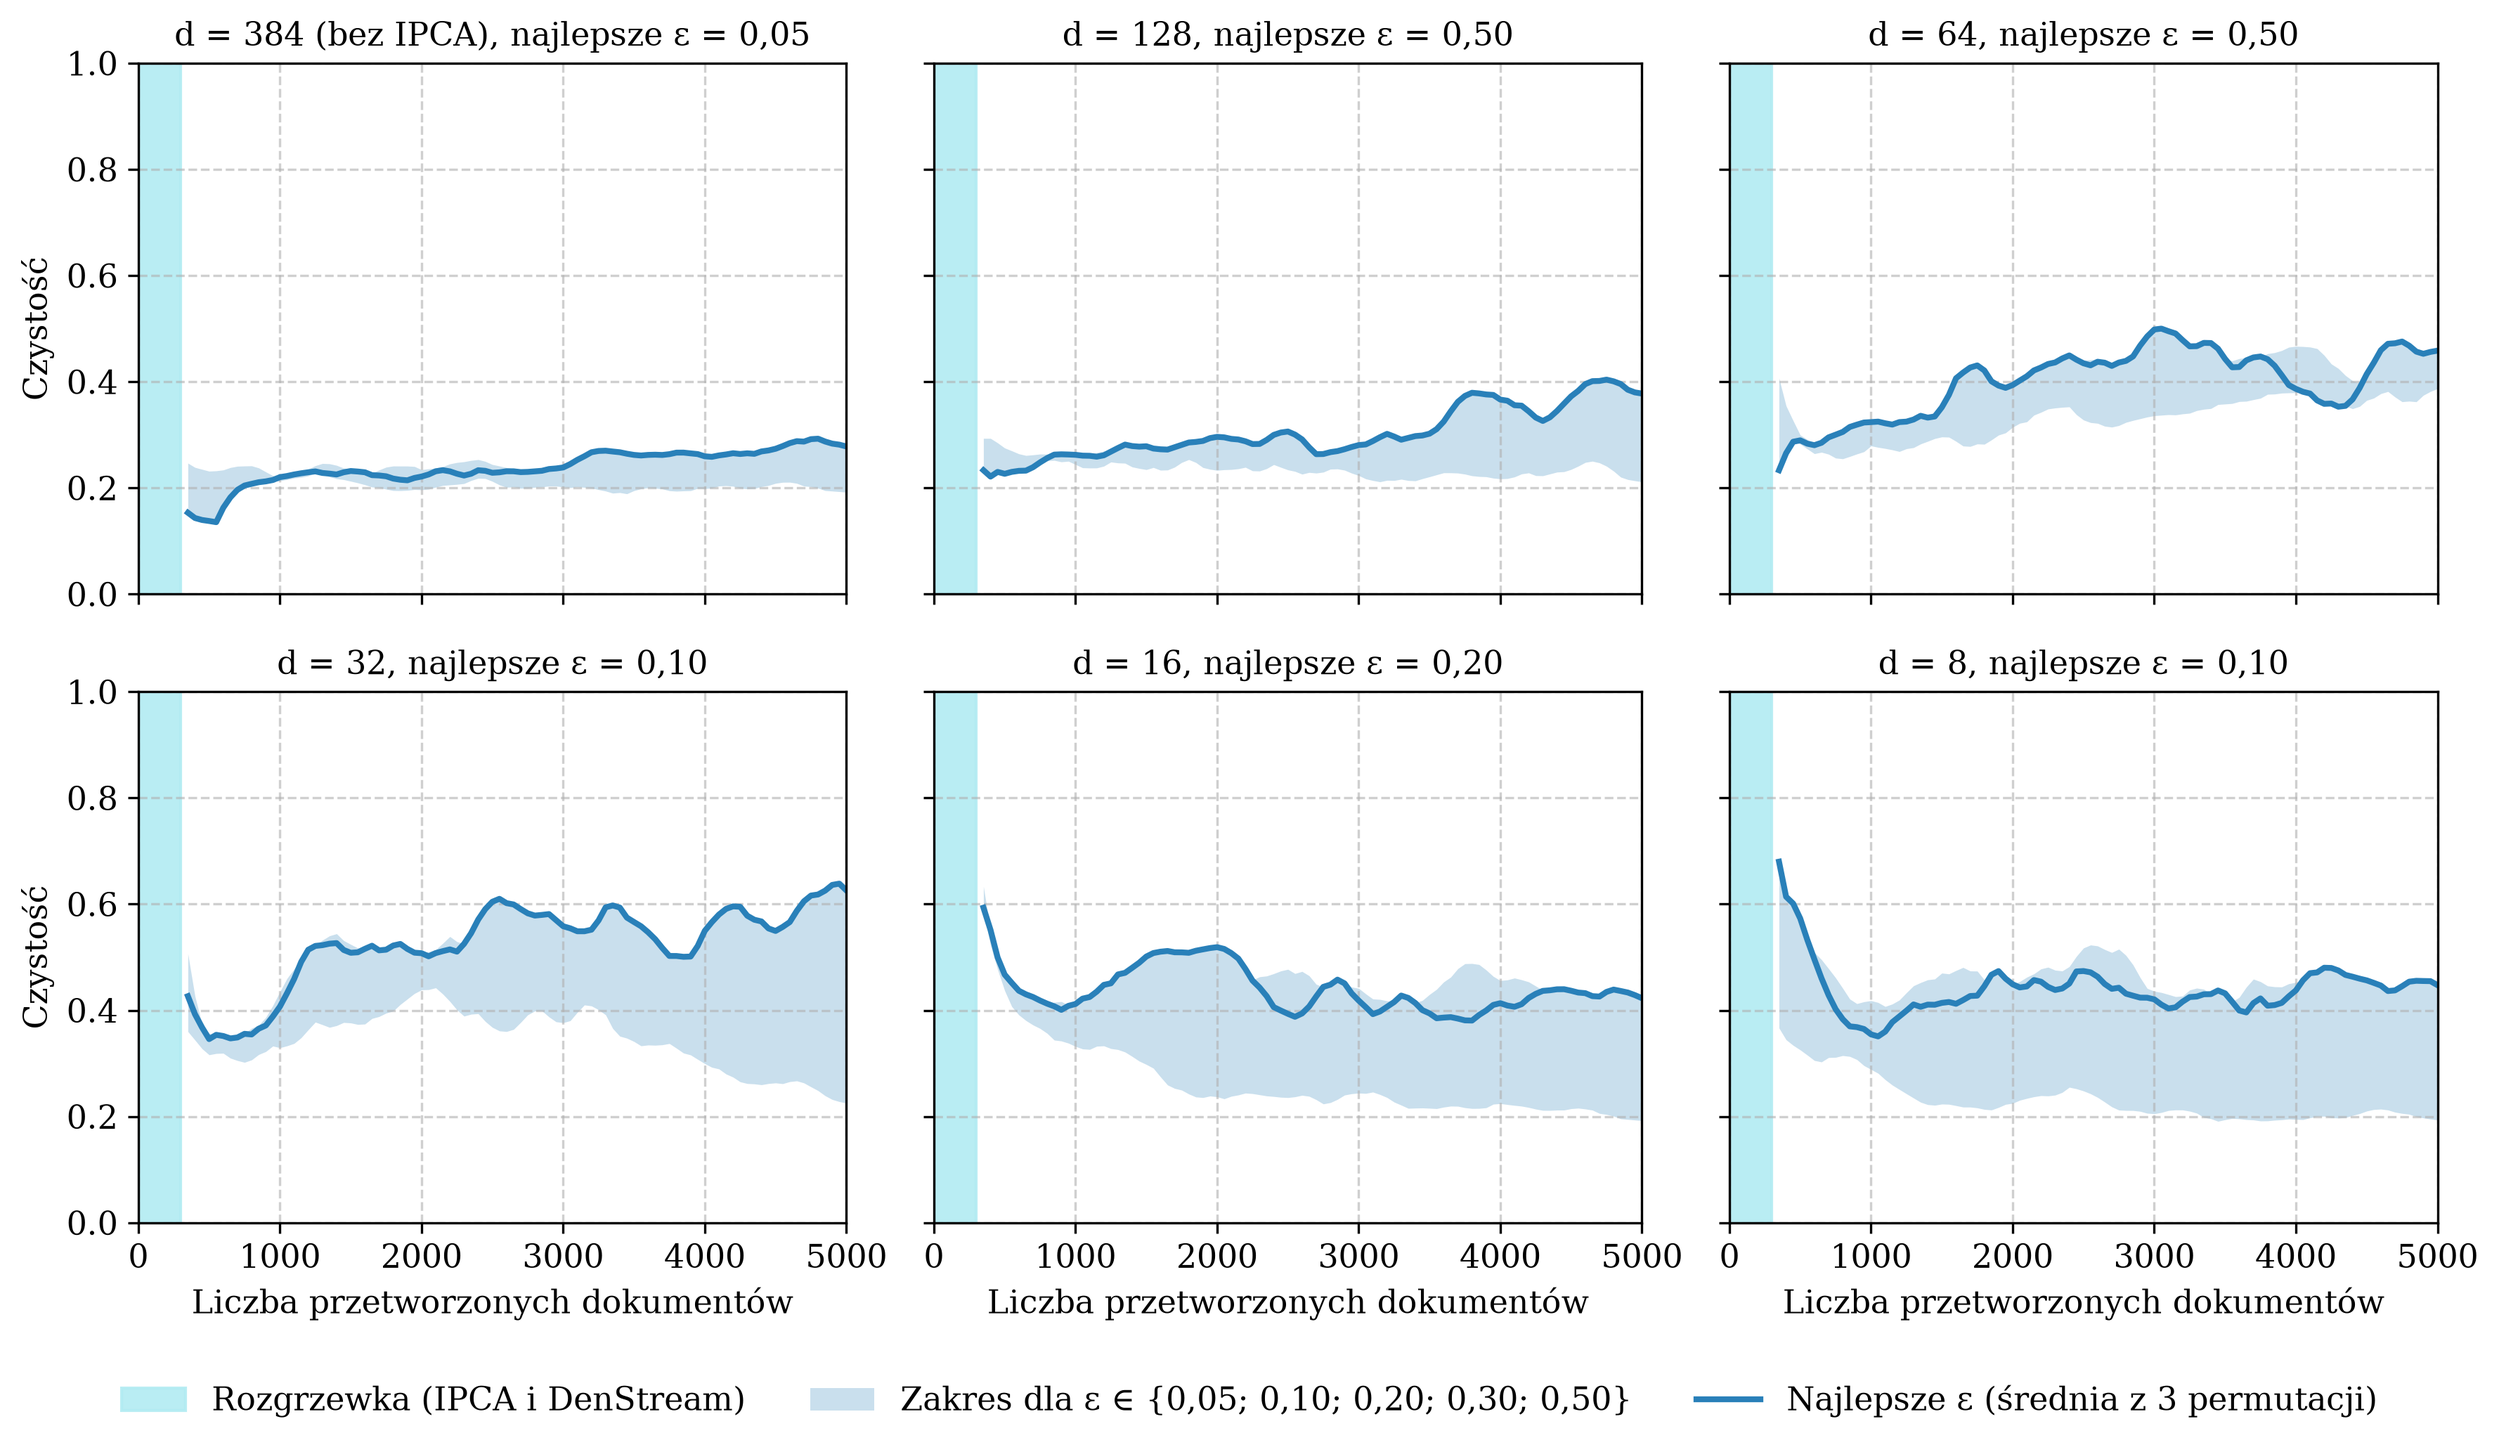
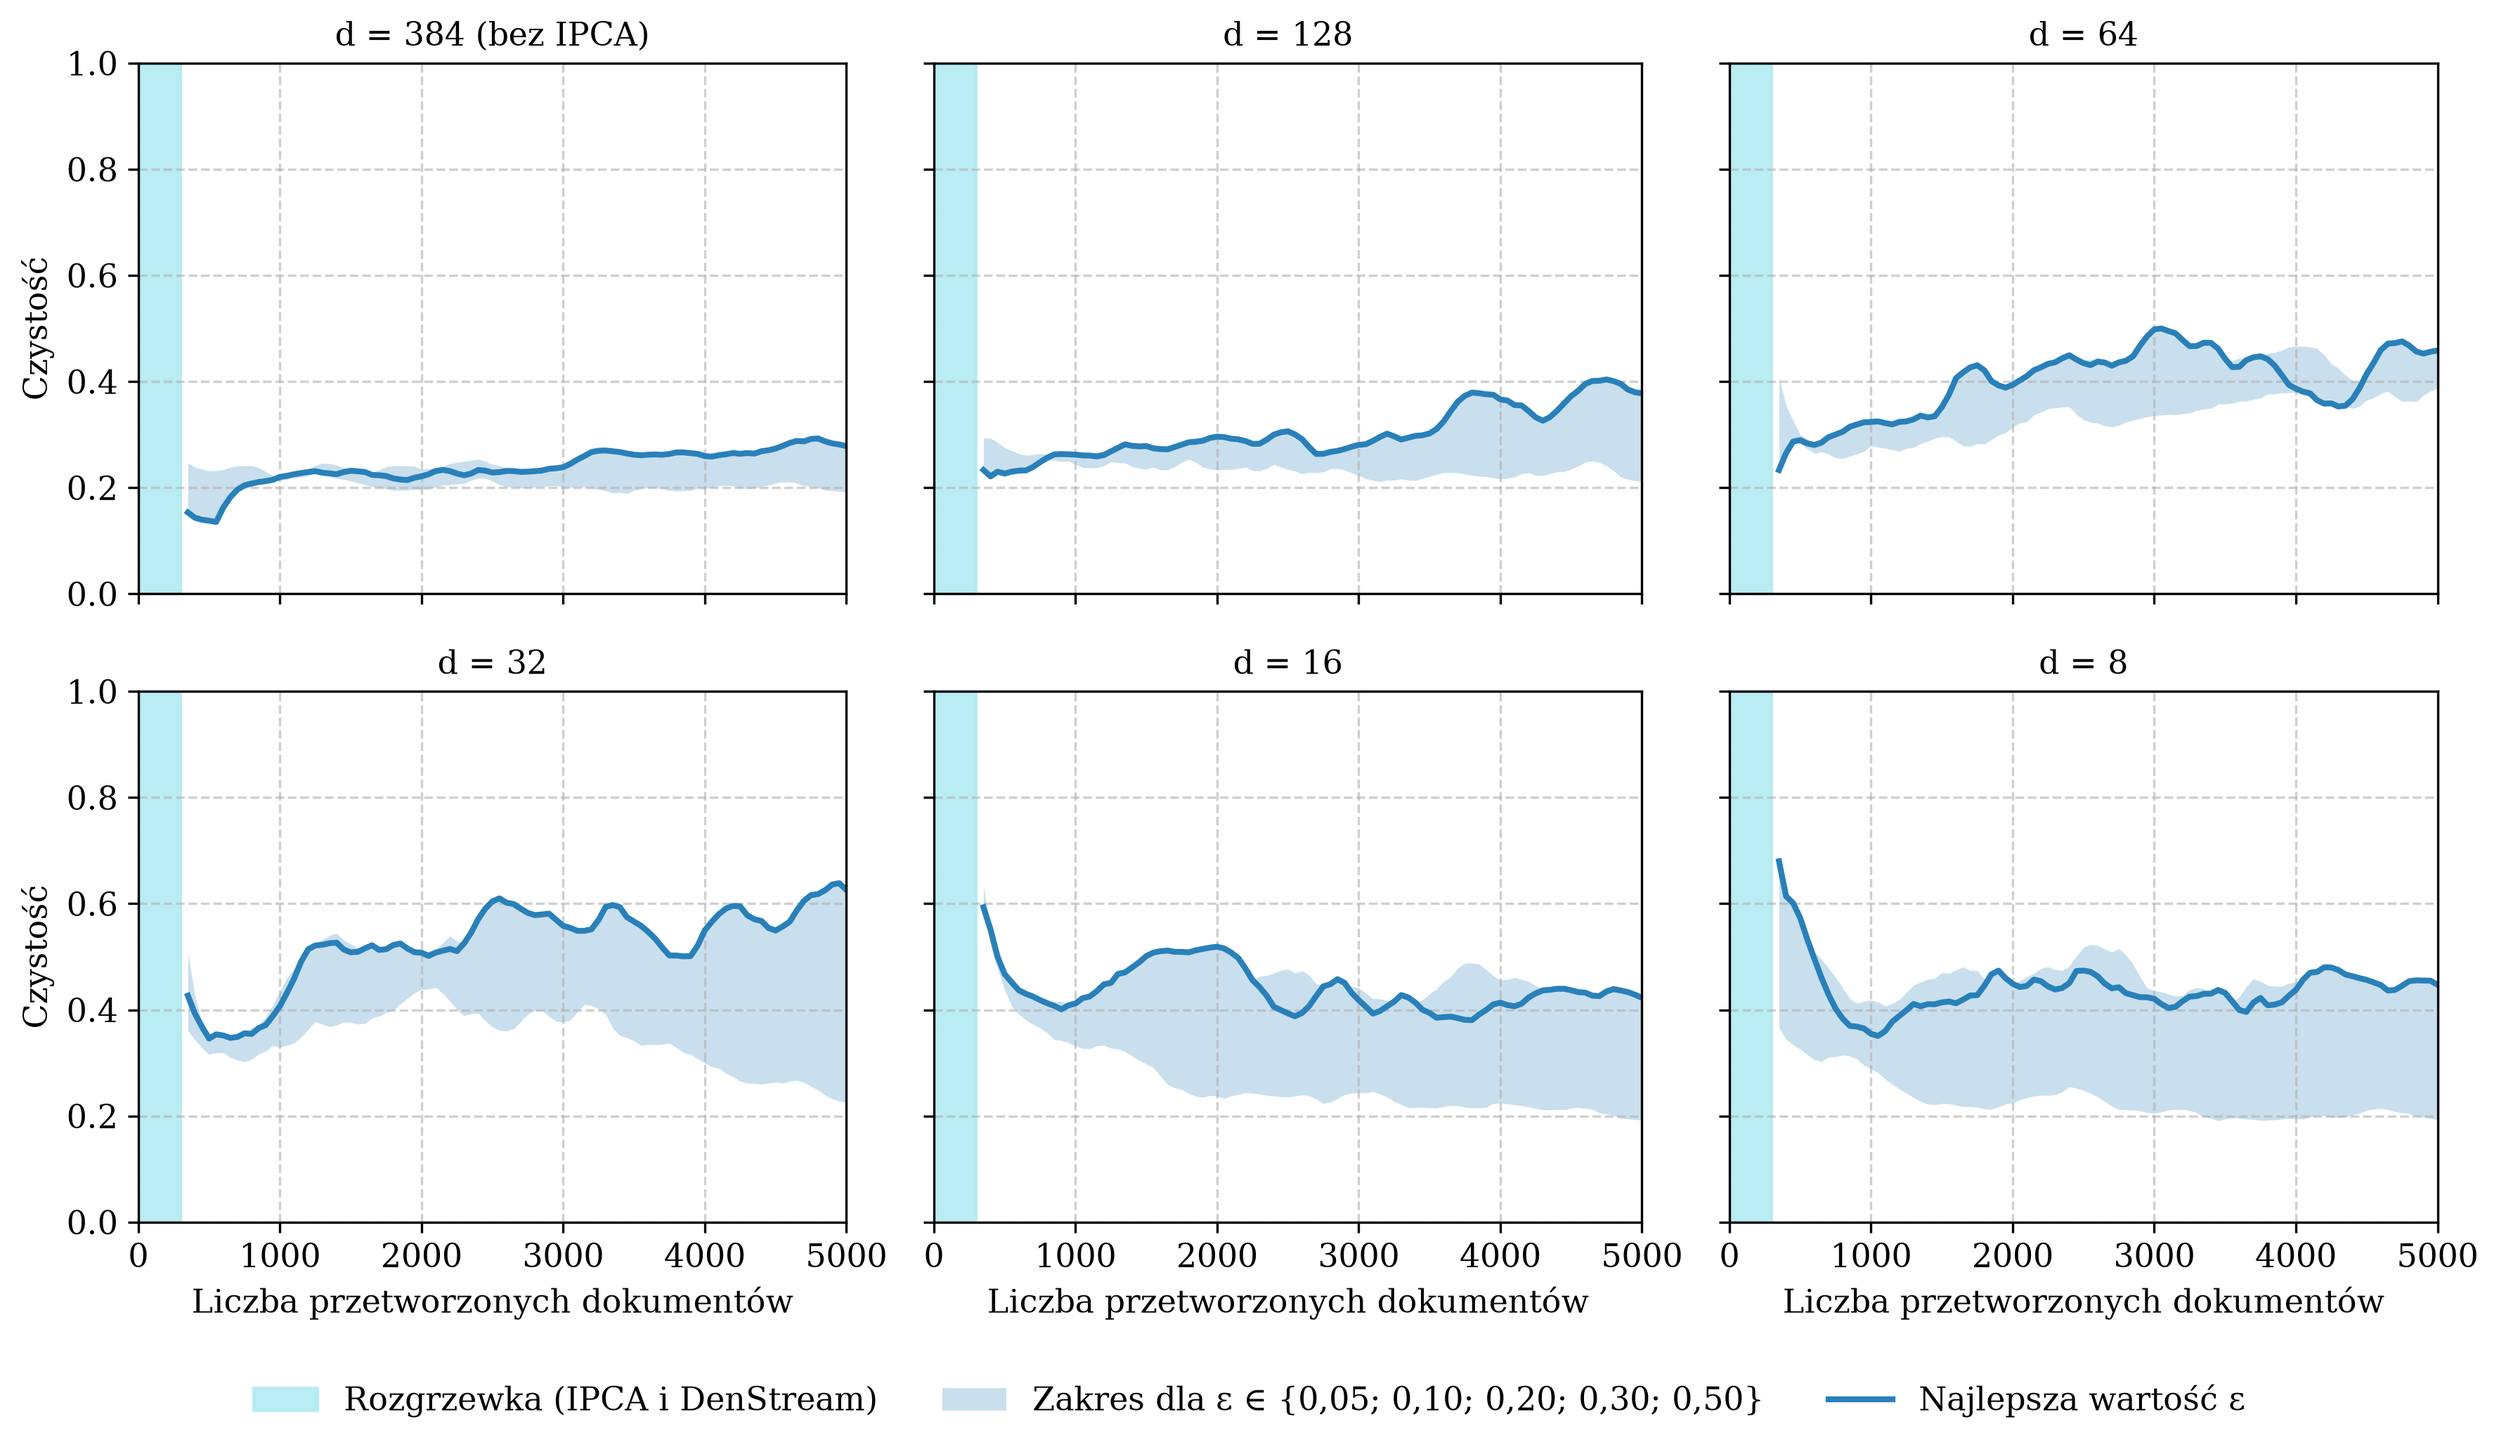
Simplify thesis 1 figure labels and explain the averaging in the text

diff --git a/experiments/theses/thesis_1/exp_thesis_1_ipca.py b/experiments/theses/thesis_1/exp_thesis_1_ipca.py
@@ -230,13 +230,8 @@ def plot_purity_band(timeseries: pd.DataFrame, summary: pd.DataFrame, out_path: 
         ax.fill_between(curves.index, curves.min(axis=1), curves.max(axis=1), color="#2980b9",
                         alpha=0.25, lw=0, label=f"Zakres dla ε ∈ {{{grid}}}")
         ax.plot(curves.index, curves[best_eps[dim]], color="#2980b9", lw=2,
-                label="Najlepsze ε (średnia z 3 permutacji)")
-        name = "d = 384 (bez IPCA)" if dim == 384 else f"d = {dim}"
-        # Every epsilon gives the same purity when the model degenerates to a
-        # single micro-cluster, so no epsilon is "best" there.
-        same_for_all = summary.loc[summary["pca_dim"] == dim, "mean_purity"].nunique() == 1
-        eps_label = "ε dowolne" if same_for_all else f"najlepsze ε = {best_eps[dim]:.2f}".replace(".", ",")
-        ax.set_title(f"{name}, {eps_label}", fontsize=11)
+                label="Najlepsza wartość ε")
+        ax.set_title("d = 384 (bez IPCA)" if dim == 384 else f"d = {dim}", fontsize=11)
         ax.set_ylim(0.0, 1.0)
         ax.set_xlim(0, timeseries["samples_seen"].max())
         ax.grid(True, linestyle="--", alpha=0.6)
